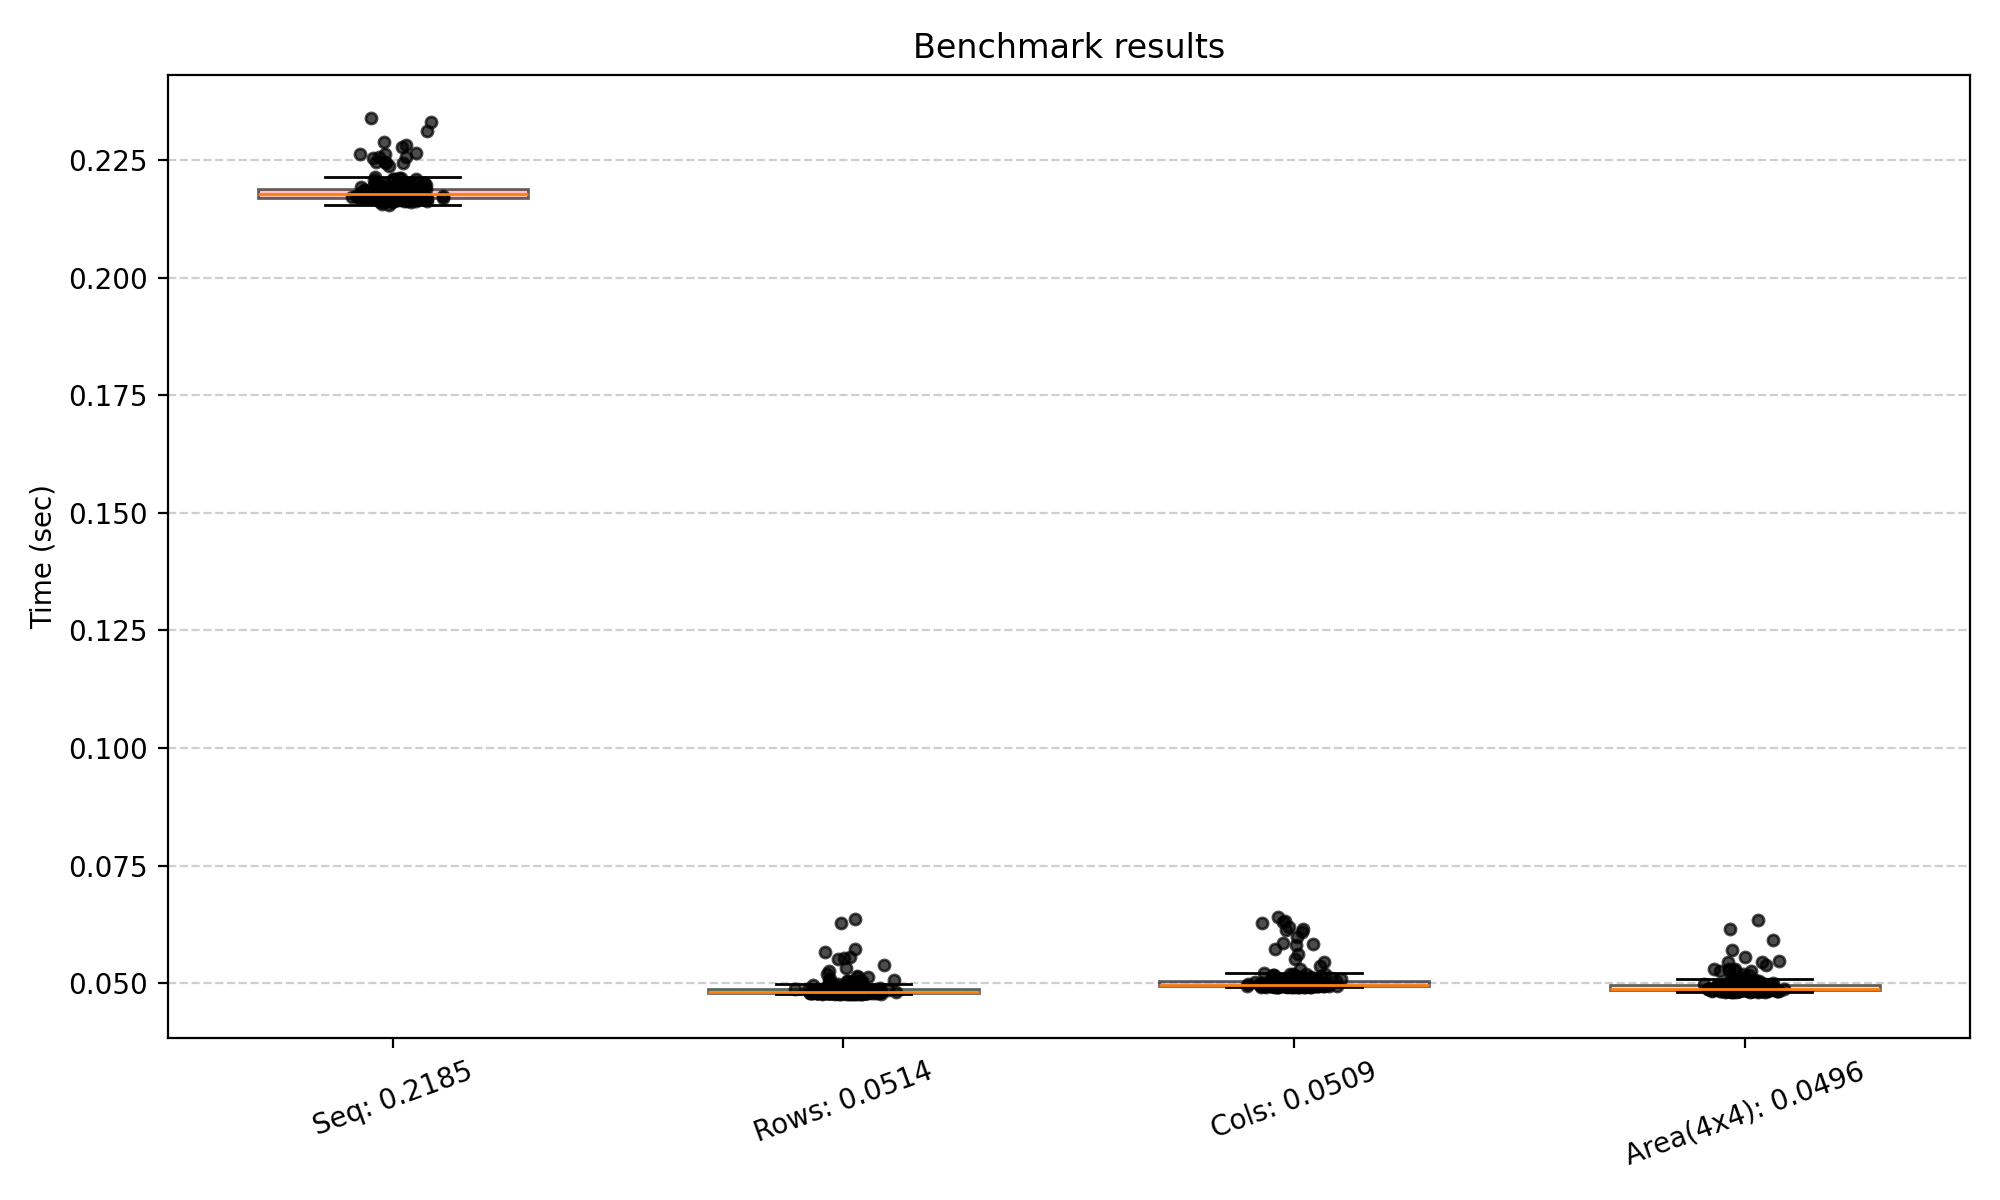
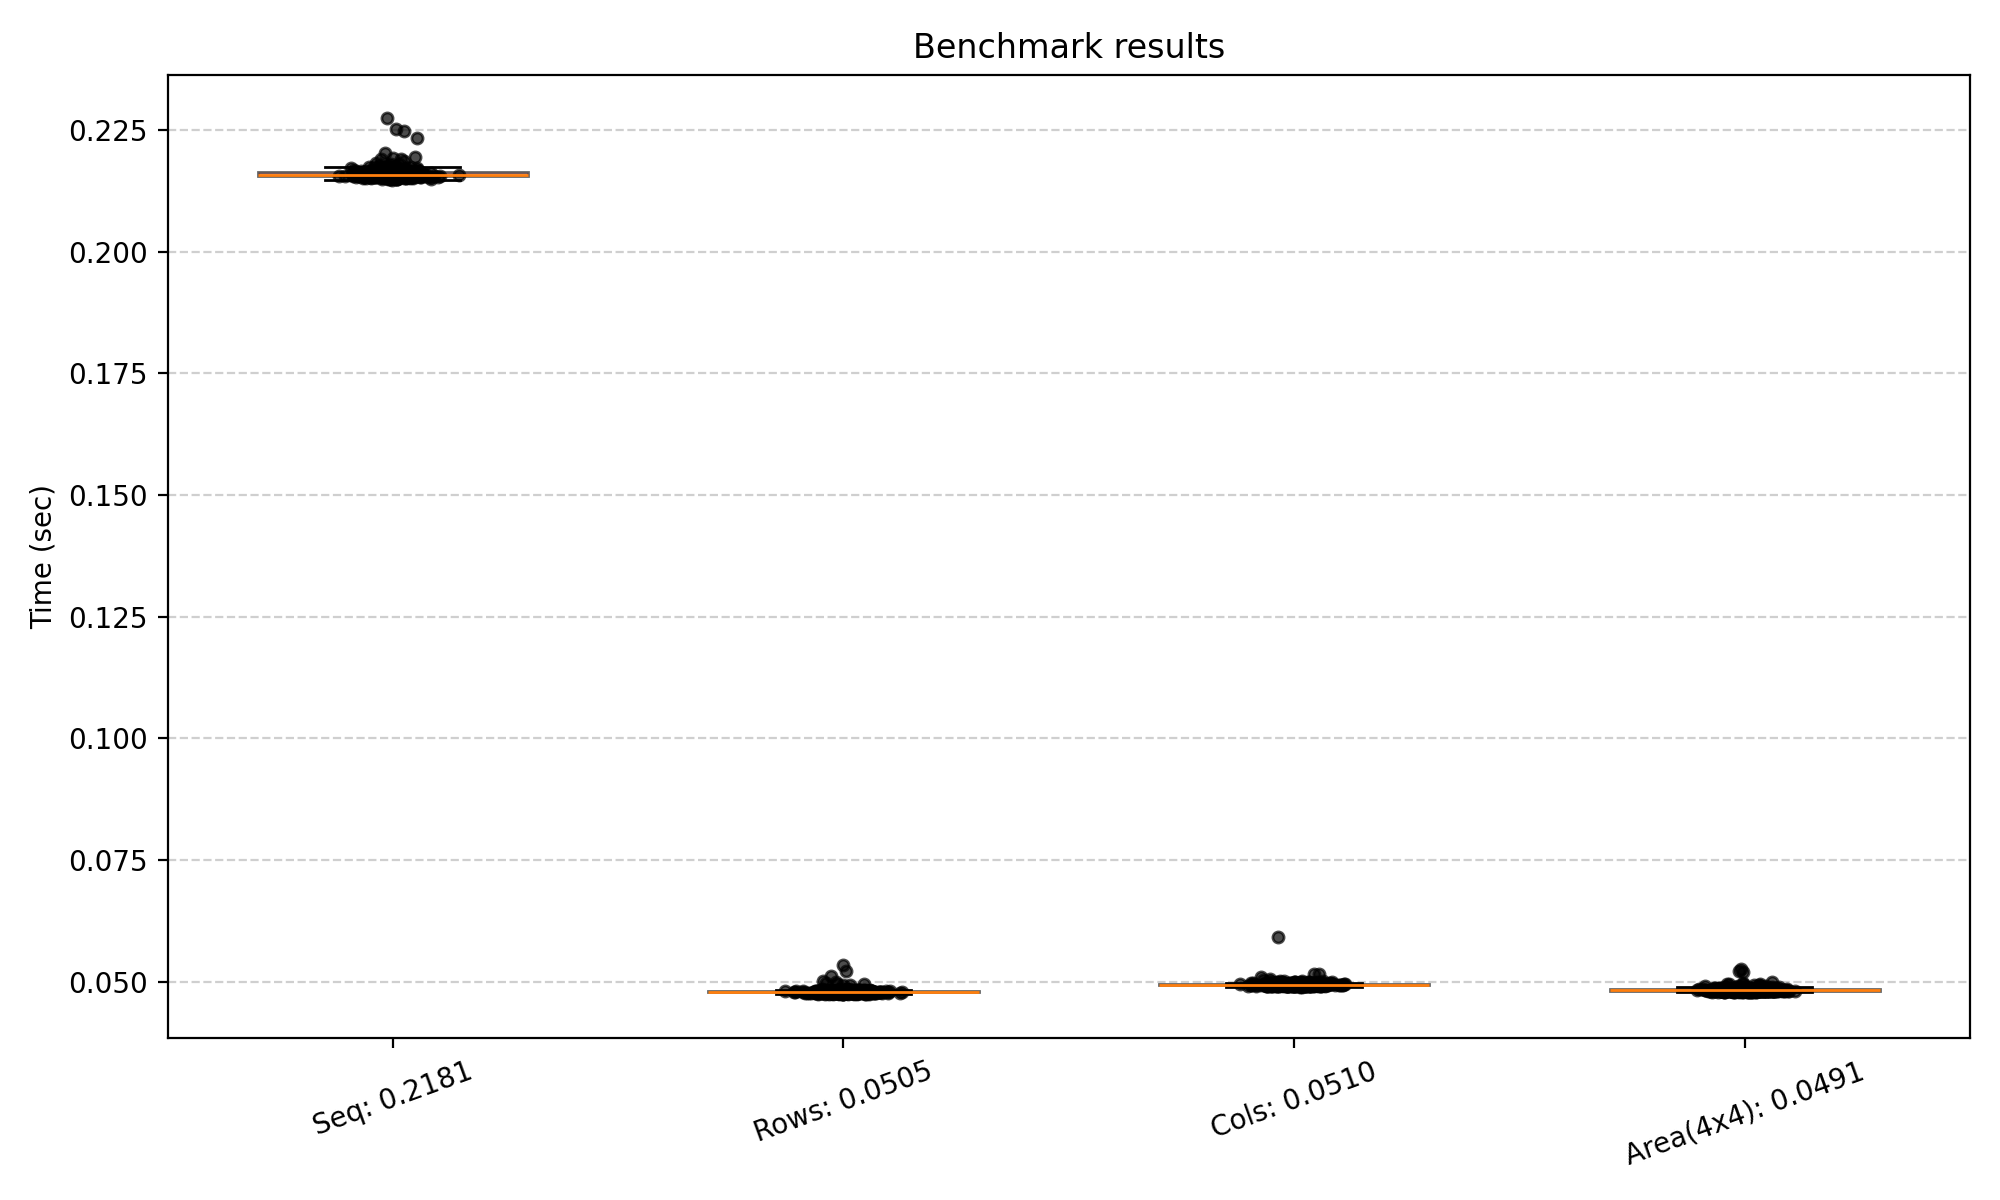
Proj: update benchmark results

diff --git a/benchmark/plot.py b/benchmark/plot.py
@@ -4,7 +4,7 @@ import numpy as np
 methods = []
 data = []
 
-filename = "results3"
+filename = "results1"
 
 with open(filename + ".csv") as f:
     for line in f:
